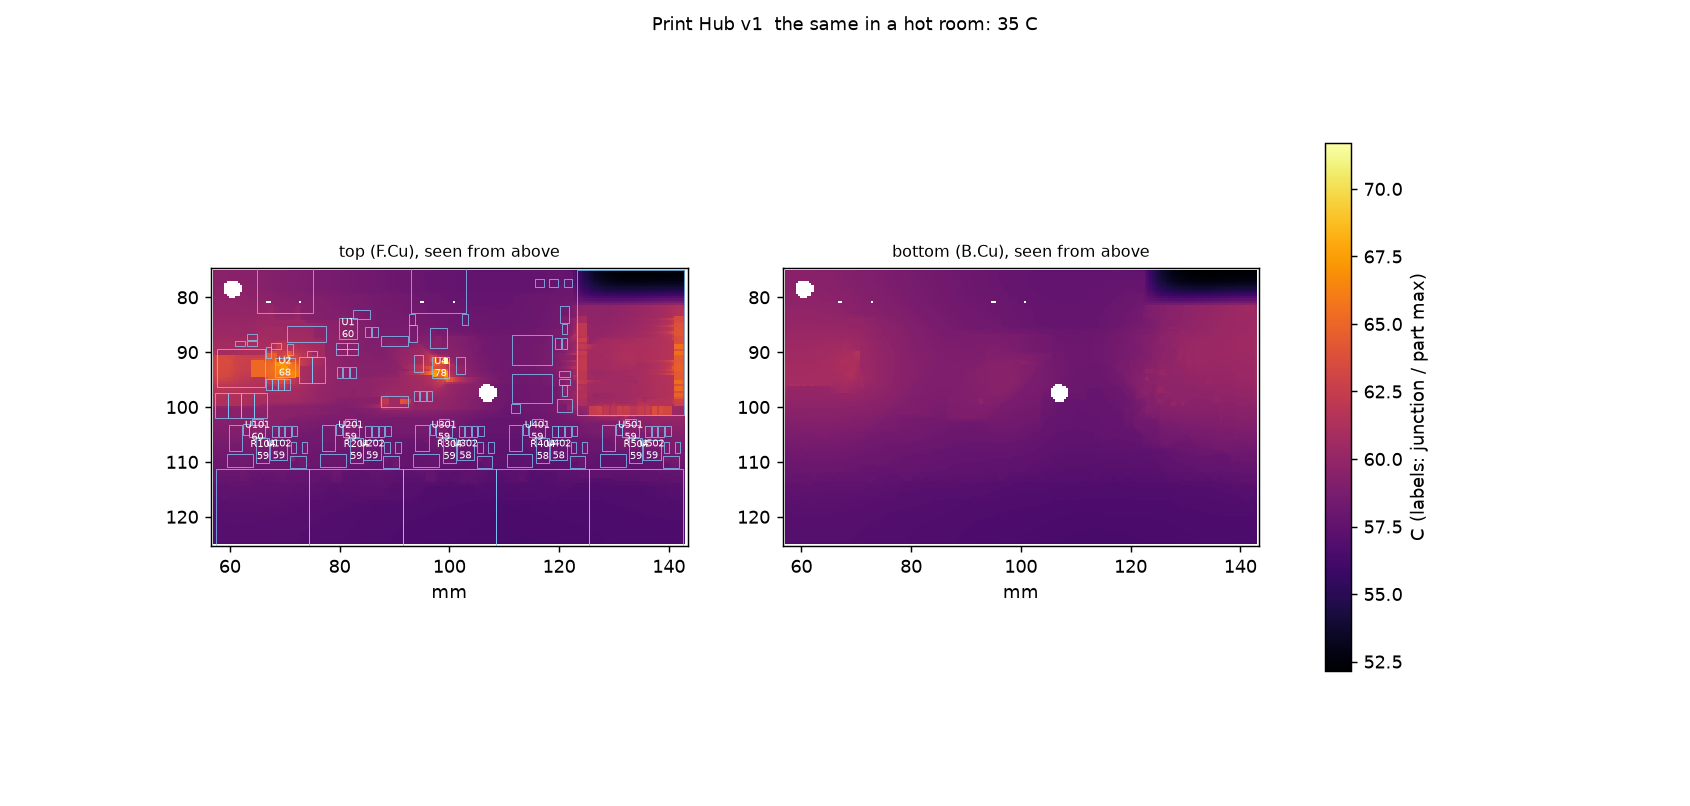
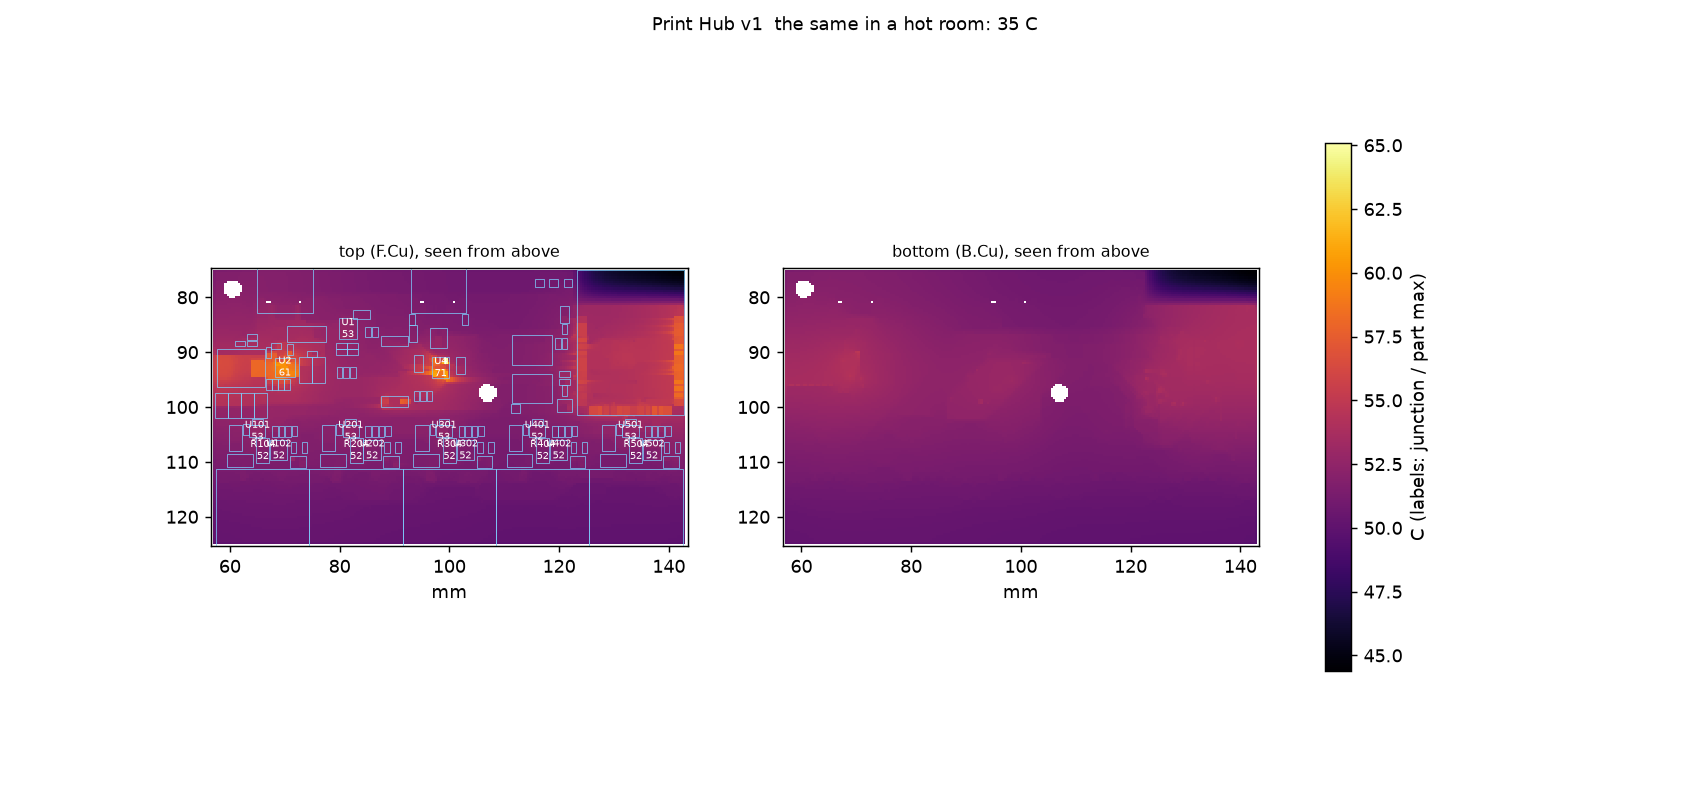
print-hub v1 heat sim: ESP32 at 80 MHz from the datasheet; thresholds from loaded cases
Claude-Session: https://claude.ai/code/session_01AiCo3BFL3vgJ9qSJmY4RFn

diff --git a/print-hub/v1/sim/thermal/board_heat.py b/print-hub/v1/sim/thermal/board_heat.py
@@ -77,8 +77,10 @@ RTH_L = 30.0                             # winding -> pads of the moulded induct
                                          # maker's 40 K rise at ~8 A rated current on its test board)
 CORE_LOSS = 0.05                         # W, FXL0630 at 800 kHz, 0.7 A ripple (maker's curve, estimate)
 R_CONTACT = 0.030                        # ohm per USB-A contact, end of life (USB 2.0 spec, 30 mOhm max)
-ESP_W = 3.3 * 0.12                       # W, module average with Wi-Fi associated and serving the page
-I_3V3 = 0.14                             # A, average 3.3 V load (module + 5 amplifiers + pull-ups)
+ESP_W = 3.3 * 0.075                      # W, module average at 80 MHz (the firmware's clock): Espressif's
+                                         # 47 mA (modem-sleep, both cores running, peripherals on) + 10 mA
+                                         # flash + Wi-Fi beacons and traffic, rounded up
+I_3V3 = 0.080                            # A, average 3.3 V load (module + 5 amplifiers + pull-ups, NTC)
 LED_W = 0.01                             # W per WS2812B-2020: ~1 mA driver + one colour at 0x20 of 0xff (firmware)
 VF_OR = 0.40                             # V, B5819W at ~0.2 A
 X5R_MAX, X7R_MAX = 85.0, 125.0           # C, ceramic capacitor ratings
@@ -377,6 +379,7 @@ def main(argv=None):
     out.append('| room (C) | load | heat (W) | thermistor (C) | first part to its limit | its margin (K) | '
                'thermistor reading at that part\'s limit (C) |\n|---|---|---|---|---|---|---|')
     trip = []
+    min_none_margin = [999.0]
     for room in HOT_ROOMS:
         for load, ports in (('3 A', [1.5, 1.5, 0, 0, 0]), ('1.5 A', [1.5, 0, 0, 0, 0]), ('none', [0] * 5)):
             case = dict(room=room, ports=ports, clamp=True, desc='%s, %g C' % (load, room))
@@ -387,13 +390,18 @@ def main(argv=None):
             rows = sorted([x for x in r['rows'] if x['T_limit']], key=lambda x: x['T_limit'] - x['T_j'])
             first = rows[0]
             m = first['T_limit'] - first['T_j']
-            trip.append(ntc + m)            # the parts' rise over the thermistor holds as the room warms
+            if sum(ports):                  # with nothing on, turning ports down cannot help
+                trip.append(ntc + m)        # the parts' rise over the thermistor holds as the room warms
             print('  room %g, %s: heat %.2f W, thermistor %.1f C, %s %.1f/%g' % (
                 room, load, r['P'], ntc, first['name'], first['T_j'], first['T_limit']))
             out.append('| %g | %s | %.2f | %.1f | %s | %+.1f | %.1f |' % (room, load, r['P'], ntc, first['name'], m, ntc + m))
-    out.append('\nThe lowest thermistor reading at which some part reaches its limit: **%.1f C**. '
-               'The firmware switches every port off at a lower reading (TRIP_C) and starts turning them down '
-               'well before (DERATE_C).\n' % min(trip))
+            if not sum(ports) and room == HOT_ROOMS[-1]:
+                min_none_margin[0] = m
+    out.append('\nWith ports on, the lowest thermistor reading at which some part reaches its limit: **%.1f C**. '
+               'The firmware must have turned the ports down to a safe load before it (DERATE_C to DERATE_FULL_C) '
+               'and switch them all off by then (TRIP_C). With every port off the board only warms with the room: '
+               'the "none" rows show it stays inside every rating to a room of about %.0f C.\n'
+               % (min(trip), HOT_ROOMS[-1] + min_none_margin[0]))
     out.append('\n## Result\n')
     out.append('**%s**' % ('every part inside its limit, with the margins above' if not bad else
                            'OVER LIMIT: ' + '; '.join(bad)))

diff --git a/print-hub/v1/sim/thermal/board_heat.md b/print-hub/v1/sim/thermal/board_heat.md
@@ -2,81 +2,83 @@
 
 Written by `sim/thermal/board_heat.py` from the routed board (`print-hub.kicad_pcb`): all four copper layers, every via and pad, 0.4 mm grid. The board is in the closed PETG case: conduction across the air gaps above and below it, radiation to the walls, the walls cooling by natural convection and radiation from the top and sides only (no credit for the floor or the vents). Limits are each part's rated maximum.
 
+Case: the case from mechanical/enclosure/case_gaps.json: outside 90.6 x 53.2 x 18.0 mm on 4 mm feet; air above the board 1.2-8.4 mm (the lid steps down over the low parts), below it 1.0-4.0 mm.
+
 
 ## everyday: fan 0.45 A, light 0.5 A, two filters 0.5 A each; room 25 C
 
-Heat in the case: **1.26 W** (ESP32 0.40 W, buck 0.23 W, 3.3 0.20 W, inductor 0.12 W, port switch 0.06 W, OR 0.06 W, port USB-A 0.06 W, port LED 0.05 W, copper 0.03 W, port shunt 0.02 W, PD 0.02 W, LED 0.01 W). Case wall: 35.9 C inside, 34.8 C outside (PETG limit 65 C). The thermistor reads 51.9 C. Energy balance error 3.1e-06 W.
+Heat in the case: **1.25 W** (ESP32 0.40 W, buck 0.23 W, 3.3 0.20 W, inductor 0.11 W, port switch 0.06 W, OR 0.06 W, port USB-A 0.06 W, port LED 0.05 W, copper 0.03 W, port shunt 0.02 W, PD 0.02 W, LED 0.01 W). Lid 35.2 C on average, 38.5 C at its hottest; floor 36.9 / 39.5 C (PETG limit 65 C). The thermistor reads 43.9 C. Energy balance error 1.9e-06 W.
 
 | part | temperature (C) | limit (C) | margin (K) |
 |---|---|---|---|
-| ESP32 module U5 | 56.5 | 85 | +28 |
-| cap C6 (X5R) | 55.8 | 85 | +29 |
-| cap C2 (X5R) | 53.8 | 85 | +31 |
-| cap C16 (X5R) | 52.9 | 85 | +32 |
-| cap C9 (X5R) | 52.5 | 85 | +33 |
-| cap C10 (X5R) | 52.4 | 85 | +33 |
-| cap C11 (X5R) | 52.2 | 85 | +33 |
-| cap C3 (X5R) | 52.2 | 85 | +33 |
-| cap C12 (X5R) | 52.1 | 85 | +33 |
-| USB-C J1 | 51.1 | 85 | +34 |
-| cap C17 (X5R) | 51.1 | 85 | +34 |
-| LED status | 51.0 | 85 | +34 |
-| PD sink U1 | 50.9 | 85 | +34 |
-| cap C18 (X5R) | 50.2 | 85 | +35 |
+| ESP32 module U5 | 49.1 | 85 | +36 |
+| cap C6 (X5R) | 48.0 | 85 | +37 |
+| cap C2 (X5R) | 46.1 | 85 | +39 |
+| cap C16 (X5R) | 45.6 | 85 | +39 |
+| cap C9 (X5R) | 44.7 | 85 | +40 |
+| cap C10 (X5R) | 44.6 | 85 | +40 |
+| cap C3 (X5R) | 44.5 | 85 | +40 |
+| cap C11 (X5R) | 44.5 | 85 | +41 |
+| cap C12 (X5R) | 44.4 | 85 | +41 |
+| LED status | 43.9 | 85 | +41 |
+| cap C17 (X5R) | 43.8 | 85 | +41 |
+| PD sink U1 | 43.3 | 85 | +42 |
+| USB-C J1 | 43.2 | 85 | +42 |
+| cap C502 (X5R) | 42.9 | 85 | +42 |
 
-Board copper: F.Cu 43.1-62.7 C, In1.Cu 43.1-55.5 C, In2.Cu 43.1-52.8 C, B.Cu 43.0-52.7 C.
+Board copper: F.Cu 34.8-55.3 C, In1.Cu 34.9-47.7 C, In2.Cu 34.8-45.0 C, B.Cu 34.7-44.9 C.
 
 ![everyday](board_heat_everyday_top_bottom.png)
 
 
 ## the same in a hot room: 35 C
 
-Heat in the case: **1.26 W** (ESP32 0.40 W, buck 0.23 W, 3.3 0.20 W, inductor 0.12 W, port switch 0.07 W, OR 0.06 W, port USB-A 0.06 W, port LED 0.05 W, copper 0.03 W, port shunt 0.02 W, PD 0.02 W, LED 0.01 W). Case wall: 45.6 C inside, 44.5 C outside (PETG limit 65 C). The thermistor reads 61.0 C. Energy balance error 3.0e-06 W.
+Heat in the case: **1.26 W** (ESP32 0.40 W, buck 0.23 W, 3.3 0.20 W, inductor 0.12 W, port switch 0.07 W, OR 0.06 W, port USB-A 0.06 W, port LED 0.05 W, copper 0.03 W, port shunt 0.02 W, PD 0.02 W, LED 0.01 W). Lid 45.0 C on average, 48.2 C at its hottest; floor 46.6 / 49.2 C (PETG limit 65 C). The thermistor reads 53.8 C. Energy balance error 2.6e-06 W.
 
 | part | temperature (C) | limit (C) | margin (K) |
 |---|---|---|---|
-| ESP32 module U5 | 65.5 | 85 | +20 |
-| cap C6 (X5R) | 64.9 | 85 | +20 |
-| cap C2 (X5R) | 62.9 | 85 | +22 |
-| cap C16 (X5R) | 62.0 | 85 | +23 |
-| cap C9 (X5R) | 61.6 | 85 | +23 |
-| cap C10 (X5R) | 61.5 | 85 | +23 |
-| cap C11 (X5R) | 61.3 | 85 | +24 |
-| cap C3 (X5R) | 61.2 | 85 | +24 |
-| cap C12 (X5R) | 61.2 | 85 | +24 |
-| USB-C J1 | 60.2 | 85 | +25 |
-| cap C17 (X5R) | 60.1 | 85 | +25 |
-| PD sink U1 | 60.0 | 85 | +25 |
-| LED status | 60.0 | 85 | +25 |
-| cap C102 (X5R) | 59.2 | 85 | +26 |
+| ESP32 module U5 | 58.9 | 85 | +26 |
+| cap C6 (X5R) | 57.9 | 85 | +27 |
+| cap C2 (X5R) | 55.9 | 85 | +29 |
+| cap C16 (X5R) | 55.3 | 85 | +30 |
+| cap C9 (X5R) | 54.6 | 85 | +30 |
+| cap C10 (X5R) | 54.5 | 85 | +31 |
+| cap C11 (X5R) | 54.3 | 85 | +31 |
+| cap C3 (X5R) | 54.3 | 85 | +31 |
+| cap C12 (X5R) | 54.2 | 85 | +31 |
+| LED status | 53.6 | 85 | +31 |
+| cap C17 (X5R) | 53.5 | 85 | +31 |
+| PD sink U1 | 53.1 | 85 | +32 |
+| USB-C J1 | 53.0 | 85 | +32 |
+| cap C502 (X5R) | 52.7 | 85 | +32 |
 
-Board copper: F.Cu 52.2-71.7 C, In1.Cu 52.3-64.6 C, In2.Cu 52.2-61.8 C, B.Cu 52.2-61.8 C.
+Board copper: F.Cu 44.5-65.1 C, In1.Cu 44.6-57.6 C, In2.Cu 44.5-54.9 C, B.Cu 44.4-54.7 C.
 
 ![everyday-hot](board_heat_everyday-hot_top_bottom.png)
 
 
 ## most allowed: 3 A (ports 1 and 2, next to the buck, at their 1.5 A limit), rail at its highest corner; room 35 C
 
-Heat in the case: **2.46 W** (port switch 0.61 W, buck 0.42 W, ESP32 0.40 W, port USB-A 0.27 W, inductor 0.23 W, 3.3 0.20 W, copper 0.10 W, port shunt 0.09 W, OR 0.06 W, port LED 0.05 W, PD 0.02 W, LED 0.01 W). Case wall: 54.0 C inside, 52.0 C outside (PETG limit 65 C). The thermistor reads 86.7 C. Energy balance error 2.5e-06 W.
+Heat in the case: **2.43 W** (port switch 0.60 W, buck 0.41 W, ESP32 0.40 W, port USB-A 0.27 W, inductor 0.22 W, 3.3 0.20 W, copper 0.09 W, port shunt 0.09 W, OR 0.06 W, port LED 0.05 W, PD 0.02 W, LED 0.01 W). Lid 53.0 C on average, 63.5 C at its hottest; floor 56.1 / 66.3 C (PETG limit 65 C). The thermistor reads 75.3 C. Energy balance error 4.0e-06 W.
 
 | part | temperature (C) | limit (C) | margin (K) |
 |---|---|---|---|
-| cap C6 (X5R) | 94.1 | 85 | -9 |
-| cap C12 (X5R) | 91.2 | 85 | -6 |
-| cap C9 (X5R) | 90.7 | 85 | -6 |
-| cap C10 (X5R) | 90.5 | 85 | -6 |
-| cap C11 (X5R) | 90.3 | 85 | -5 |
-| cap C2 (X5R) | 89.9 | 85 | -5 |
-| cap C102 (X5R) | 89.6 | 85 | -5 |
-| port 1 USB-A | 89.3 | 85 | -4 |
-| cap C105 (X5R) | 88.8 | 85 | -4 |
-| port 1 LED | 86.9 | 85 | -2 |
-| port 2 USB-A | 86.6 | 85 | -2 |
-| cap C3 (X5R) | 86.5 | 85 | -2 |
-| cap C202 (X5R) | 86.5 | 85 | -1 |
-| cap C205 (X5R) | 86.1 | 85 | -1 |
+| cap C6 (X5R) | 83.1 | 85 | +2 |
+| cap C12 (X5R) | 80.7 | 85 | +4 |
+| cap C9 (X5R) | 79.7 | 85 | +5 |
+| cap C10 (X5R) | 79.6 | 85 | +5 |
+| cap C11 (X5R) | 79.4 | 85 | +6 |
+| port 1 USB-A | 79.2 | 85 | +6 |
+| cap C102 (X5R) | 79.1 | 85 | +6 |
+| cap C2 (X5R) | 79.0 | 85 | +6 |
+| cap C105 (X5R) | 78.7 | 85 | +6 |
+| port 1 LED | 77.0 | 85 | +8 |
+| port 2 USB-A | 76.9 | 85 | +8 |
+| cap C202 (X5R) | 76.4 | 85 | +9 |
+| cap C205 (X5R) | 76.3 | 85 | +9 |
+| cap C3 (X5R) | 75.8 | 85 | +9 |
 
-Board copper: F.Cu 61.9-99.2 C, In1.Cu 62.0-95.7 C, In2.Cu 61.9-89.7 C, B.Cu 61.8-89.6 C.
+Board copper: F.Cu 48.1-88.1 C, In1.Cu 48.1-85.1 C, In2.Cu 48.0-78.7 C, B.Cu 47.9-79.2 C.
 
 ![max](board_heat_max_top_bottom.png)
 
@@ -87,22 +89,22 @@ No turning down in these runs: they show what the thermistor reads when the firs
 
 | room (C) | load | heat (W) | thermistor (C) | first part to its limit | its margin (K) | thermistor reading at that part's limit (C) |
 |---|---|---|---|---|---|---|
-| 35 | 3 A | 2.46 | 86.7 | cap C6 (X5R) | -9.1 | 77.6 |
-| 35 | 1.5 A | 1.50 | 66.0 | cap C12 (X5R) | +13.9 | 79.9 |
-| 35 | none | 0.81 | 49.3 | ESP32 module U5 | +25.0 | 74.2 |
-| 40 | 3 A | 2.47 | 91.0 | cap C6 (X5R) | -13.4 | 77.6 |
-| 40 | 1.5 A | 1.51 | 70.4 | cap C12 (X5R) | +9.4 | 79.8 |
-| 40 | none | 0.81 | 53.9 | ESP32 module U5 | +20.4 | 74.3 |
-| 45 | 3 A | 2.48 | 95.3 | cap C6 (X5R) | -17.8 | 77.5 |
-| 45 | 1.5 A | 1.51 | 74.9 | cap C12 (X5R) | +4.8 | 79.8 |
-| 45 | none | 0.81 | 58.6 | ESP32 module U5 | +15.8 | 74.3 |
-| 50 | 3 A | 2.49 | 99.6 | cap C6 (X5R) | -22.1 | 77.5 |
-| 50 | 1.5 A | 1.52 | 79.4 | cap C12 (X5R) | +0.3 | 79.7 |
-| 50 | none | 0.81 | 63.2 | ESP32 module U5 | +11.2 | 74.4 |
+| 35 | 3 A | 2.43 | 75.3 | cap C6 (X5R) | +1.9 | 77.3 |
+| 35 | 1.5 A | 1.50 | 57.8 | port 1 USB-A | +21.5 | 79.3 |
+| 35 | none | 0.81 | 44.3 | ESP32 module U5 | +29.5 | 73.8 |
+| 40 | 3 A | 2.44 | 80.3 | cap C6 (X5R) | -3.1 | 77.2 |
+| 40 | 1.5 A | 1.50 | 62.7 | port 1 USB-A | +16.6 | 79.3 |
+| 40 | none | 0.81 | 49.2 | ESP32 module U5 | +24.6 | 73.8 |
+| 45 | 3 A | 2.45 | 85.3 | cap C6 (X5R) | -8.1 | 77.2 |
+| 45 | 1.5 A | 1.51 | 67.6 | port 1 USB-A | +11.7 | 79.3 |
+| 45 | none | 0.81 | 54.1 | ESP32 module U5 | +19.7 | 73.8 |
+| 50 | 3 A | 2.47 | 90.3 | cap C6 (X5R) | -13.1 | 77.1 |
+| 50 | 1.5 A | 1.51 | 72.5 | cap C12 (X5R) | +6.7 | 79.3 |
+| 50 | none | 0.81 | 59.0 | ESP32 module U5 | +14.8 | 73.8 |
 
-The lowest thermistor reading at which some part reaches its limit: **74.2 C**. The firmware switches every port off at a lower reading (TRIP_C) and starts turning them down well before (DERATE_C).
+The lowest thermistor reading at which some part reaches its limit: **73.8 C**. The firmware switches every port off at a lower reading (TRIP_C) and starts turning them down well before (DERATE_C).
 
 
 ## Result
 
-**OVER LIMIT: max: cap C6 (X5R) 94 C over 85 C; max: cap C12 (X5R) 91 C over 85 C; max: cap C9 (X5R) 91 C over 85 C; max: cap C10 (X5R) 91 C over 85 C; max: cap C11 (X5R) 90 C over 85 C; max: cap C2 (X5R) 90 C over 85 C; max: cap C102 (X5R) 90 C over 85 C; max: port 1 USB-A 89 C over 85 C; max: cap C105 (X5R) 89 C over 85 C; max: port 1 LED 87 C over 85 C; max: port 2 USB-A 87 C over 85 C; max: cap C3 (X5R) 87 C over 85 C; max: cap C202 (X5R) 86 C over 85 C; max: cap C205 (X5R) 86 C over 85 C**
+**OVER LIMIT: max: case wall 66 C over 65 C**
